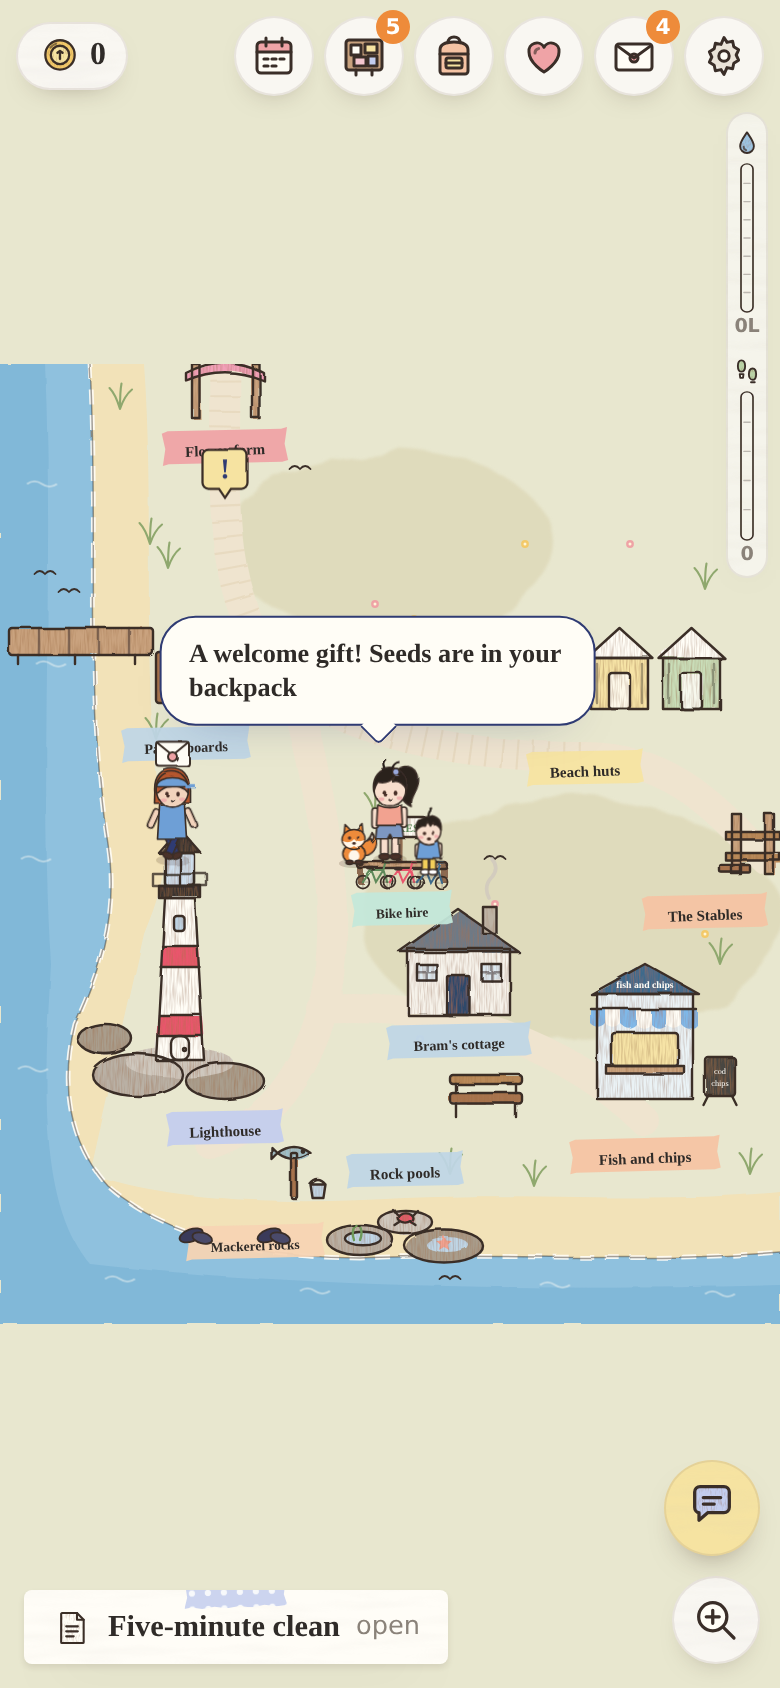
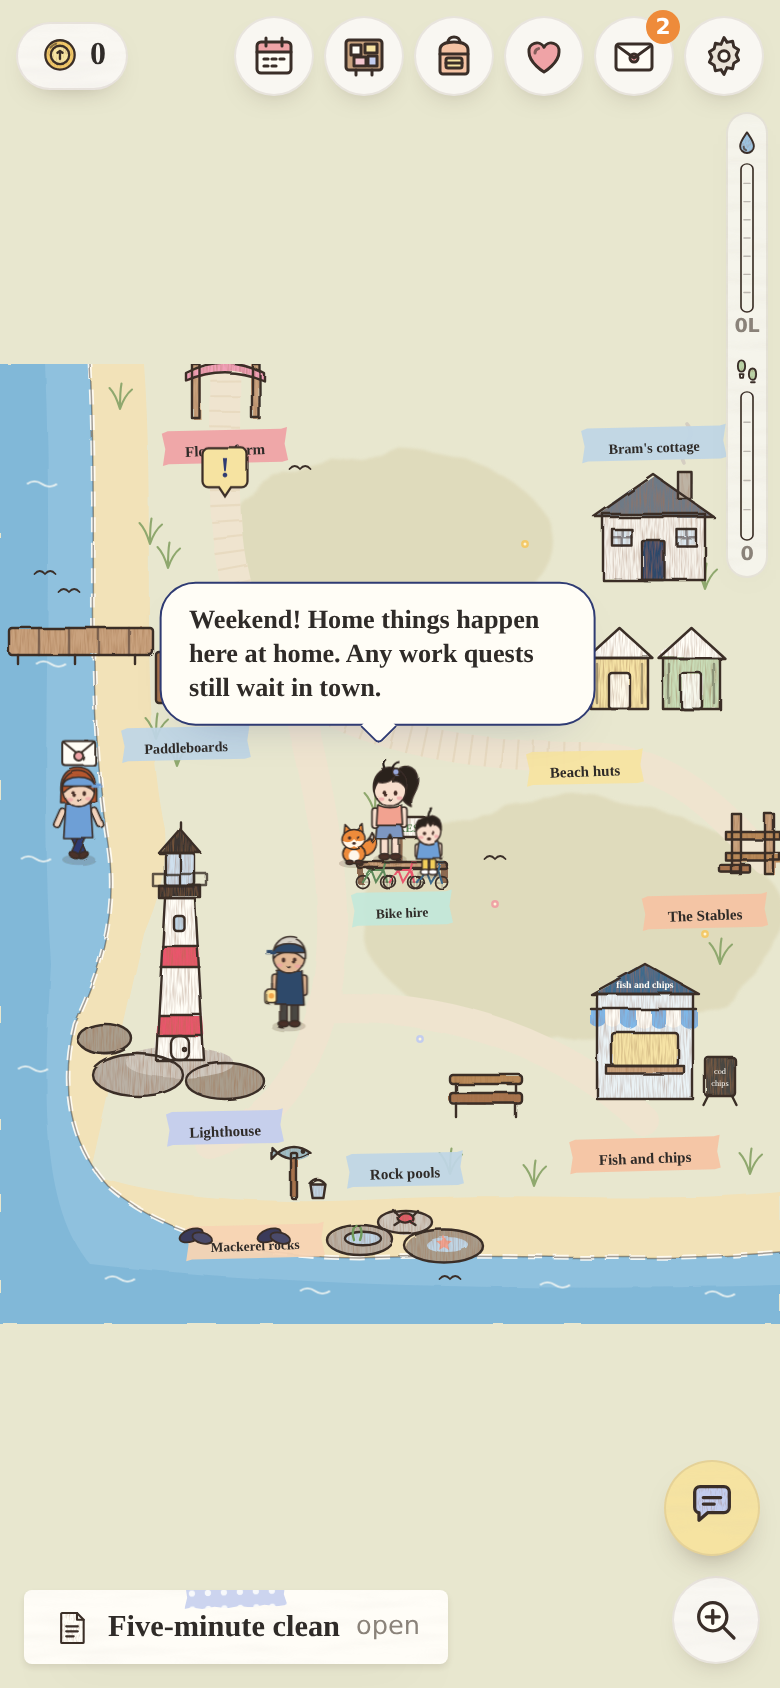
Bram's cottage moves up above the beach huts; port prompt covers the wedding cases
Claude-Session: https://claude.ai/code/session_017gYbhpw6TbdTF5ufLgYzyp

diff --git a/maple-village/src/art/bramcot.js b/maple-village/src/art/bramcot.js
@@ -4,13 +4,14 @@
 // the desk under the round window, and the door back out to the point.
 import { sk, tapeLabel } from "./scenes.js";
 
+// round 285 (Mel: "Why isn't Bram's cottage above the beach huts instead"): drawn at its first spot and moved up there
 export function bramCottageOut(){
-  return `<g data-place="lbram" aria-label="Bram's cottage"><ellipse class="hov" cx="306" cy="436" rx="44" ry="10" style="fill:var(--butter)"/>
+  return `<g data-place="lbram" aria-label="Bram's cottage" transform="translate(130 -290)"><ellipse class="hov" cx="306" cy="436" rx="44" ry="10" style="fill:var(--butter)"/>
     ${sk(`<rect x="272" y="390" width="68" height="44" style="fill:#F6F2EA"/><path d="M266 392 L306 364 L346 392z" style="fill:#6E7A86"/><rect x="322" y="362" width="9" height="18" style="fill:#BDB3A4"/>
       <rect x="298" y="408" width="15" height="26" rx="1" style="fill:#2F4A6B"/><rect class="wglow" x="278" y="400" width="13" height="11" style="fill:#DCE8F0"/><rect class="wglow" x="321" y="400" width="13" height="11" style="fill:#DCE8F0"/>`,
       `<rect x="272" y="390" width="68" height="44"/><path d="M266 392 L306 364 L346 392z"/><rect x="322" y="362" width="9" height="18"/><rect x="298" y="408" width="15" height="26" rx="1"/><rect x="278" y="400" width="13" height="11"/><rect x="321" y="400" width="13" height="11"/><path d="M284.5 400 v11 M278 405.5 h13 M327.5 400 v11 M321 405.5 h13" opacity=".5"/>`)}
     <path d="M326 356 q-4 -8 2 -14 q5 -6 0 -12" fill="none" style="stroke:#CFC8BE" stroke-width="2.4" stroke-linecap="round" opacity=".8"/>
-    ${tapeLabel(306, 452, "Bram's cottage", "var(--sky)", 9.5)}</g>`;
+    ${tapeLabel(306, 344, "Bram's cottage", "var(--sky)", 9.5)}</g>`;
 }
 
 export function bramCottageArt(home){

diff --git a/maple-village/src/data/world.js b/maple-village/src/data/world.js
@@ -81,7 +81,7 @@ export const VILLAGE = {
   lchips:{scene:"lighthouse", name:"The fish and chip hatch", door:[430,508], spot:true, mark:[430,380], line:"Fish and chips."},
   toLowerV:{scene:"vineyard", name:"Path down to the lower vineyard", door:[496,614], spot:true, bridge:"lowervine", mark:[474,540], line:"Down the hill to the lower vineyard."},
   toVineD:{scene:"lowervine", name:"Path up to the vineyard", door:[430,30], spot:true, bridge:"vineyard", mark:[400,90], line:"Up the hill to the vineyard."},
-  lbram: {scene:"lighthouse", name:"Bram's cottage", door:[306,446], spot:true, mark:[306,330], line:"Bram's cottage, at the foot of the light."},   // round 283
+  lbram: {scene:"lighthouse", name:"Bram's cottage", door:[436,156], spot:true, mark:[436,60], line:"Bram's cottage, at the foot of the light."},   // round 283
   vsale: {scene:"lowervine", name:"Bram's For Sale sign", door:[330,150], spot:true, mark:[330,90], line:"A For Sale sign by the path, with a note pinned under it."},   // round 282
   vpress: {scene:"lowervine", name:"The old grape press", door:[110,258], spot:true, mark:[110,120], line:"The old stone press. Marco says his grandfather trod grapes in it, barefoot, singing. Now it's for leaning on and looking at."},
   vbench: {scene:"lowervine", name:"The sea bench", door:[300,580], spot:true, mark:[300,500], line:"You sit a while. The sea goes silver all the way to the edge of the sky, the vines tick in the breeze behind you, and nobody needs anything from you."},

diff --git a/maple-village/src/game/paths.js b/maple-village/src/game/paths.js
@@ -10,7 +10,7 @@ const OBST = {
   green: [[0, 596, 520, 640], [58, 420, 242, 520], [322, 110, 438, 256], [40, 112, 166, 198], [174, 124, 244, 190]],   // pond, bandstand, allotments, shed
   stables: [[0, 596, 520, 640], [194, 116, 446, 232], [18, 128, 150, 230], [154, 192, 198, 224], [230, 354, 500, 574], [32, 452, 188, 548], [56, 386, 106, 416]],
   bramcot: [[0, 0, 520, 200], [56, 284, 152, 362], [250, 280, 350, 342], [376, 204, 486, 268], [478, 196, 520, 290]],   // round 283: Bram's cottage
-  lighthouse: [[268, 362, 346, 434], [0, 0, 62, 320], [0, 320, 75, 440], [0, 440, 55, 550], [0, 550, 110, 640], [110, 592, 520, 640], [52, 304, 176, 464], [295, 176, 483, 232], [394, 400, 466, 490], [100, 188, 146, 228]],
+  lighthouse: [[398, 72, 476, 144], [0, 0, 62, 320], [0, 320, 75, 440], [0, 440, 55, 550], [0, 550, 110, 640], [110, 592, 520, 640], [52, 304, 176, 464], [295, 176, 483, 232], [394, 400, 466, 490], [100, 188, 146, 228]],
   flowers: [[462, 454, 514, 494], [0, 262, 30, 640]],
   orchard: [[64, 96, 200, 222], [350, 156, 480, 236]],
   field: [[80, 220, 340, 340], [326, 290, 400, 430], [346, 430, 400, 640]],

diff --git a/maple-village/src/game/core.js b/maple-village/src/game/core.js
@@ -4421,7 +4421,7 @@ svg.addEventListener("click", ev => {
     return; }
   // round 277: the allotments, each neighbour's plot and the swap crate; the gate back to the green
   // round 283: Bram's cottage: the fire, the kettle (tea with Bram), the ship in a bottle, the window and the logbook
-  if (scene === "bramcot" && ev.target.closest("[data-exit]")) { go(scene, 260, 600, () => setScene("lighthouse", [306, 452])); return; }
+  if (scene === "bramcot" && ev.target.closest("[data-exit]")) { go(scene, 260, 600, () => setScene("lighthouse", [436, 158])); return; }
   const bsp = scene === "bramcot" && ev.target.closest("[data-bspot]");
   if (bsp) { const k = bsp.dataset.bspot, at = {fire: [104, 250], kettle: [200, 250], ship: [300, 250], window: [356, 252], log: [430, 300]}[k];
     go(scene, at[0], at[1], () => { const ev2 = evanHere() && !evanNight(), r = SO.bramSpot(F, k, dayKey(), isHere("bram"), ev2); if (!r) return;

diff --git a/maple-village/PORT-BOTTOM-ROW.md b/maple-village/PORT-BOTTOM-ROW.md
@@ -115,8 +115,14 @@ These story threads hang off the personal edition's villagers and its secret pas
 - **The allotments screen:** new file `src/art/allotment.js`, an inside screen reached from the green (`gallot`), with six neighbours' plots (`PLOTS`, `data-aspot`) and the swap crate. Swap the plot holders for this edition's villagers.
 - **River mouth:** on the lower vineyard the stream fans out across the sand into the sea, filled with a gradient from `--water` to `--sea` so the two blend.
 - **Buying the lower vineyard (round 282):** the four lower rows start as Bram's, with a For Sale sign (`vsale`, `lowerSalePanel`, `buyLower`, 2,500 coins); no trellis goes down there until you buy. Use this edition's keeper if Bram isn't ported.
-- **Riding your own pony and Bram's cottage (round 283):** tack from the tack room, an hour's ride a day as a ride mode ("pony" in `ride()`), and the keeper's cottage by the lighthouse (`art/bramcot.js`, scene `bramcot`, `bramSpot`). Swap Evan for this edition's companion, or drop him.
+- **Riding your own pony and Bram's cottage (round 283):** tack from the tack room, an hour's ride a day as a ride mode ("pony" in `ride()`), and the keeper's cottage above the beach huts at Lighthouse Point (`art/bramcot.js`, scene `bramcot`, `bramSpot`). Swap Evan for this edition's companion, or drop him.
 - **Beachcombing:** two finds a day on each bottom-row beach (`BEACH_SPOTS`, `beachFinds`, `pickBeach`, `beachArt`, `data-shell`): seashells and conches (`BEACH` in `data/carboot.js`), plus the kitchen's existing `clams` and `mussels` if this edition has them; otherwise shells only.
+
+### 11. Weddings buy sparkling by the case (round 284, not part of the bottom row)
+If this edition has the terrace weddings (`game/occasions.js`), port this too: commit `4fea497` "Weddings order two to four cases of sparkling, brought up from the cellar on the day".
+- `occasions.js`: `weddingCases(day)` gives each couple an order of two to four cases; the bookings book note reads "N cases of sparkling ordered from your cellar".
+- `vineyard.js` `sellTick`: once the wedding's on (`v.wedCases` marks the day), that many bottles (six a case) come straight out of the cellar's sparkling, kept-back lots included but nothing on the riddling rack, paid at the shelf price (`bottlePrice`, shared with `stock`). If there's not enough, they take what there is; guests still buy off the shelves as before. The day's report counts the couple's bottles (`today.cases`).
+- Test: the extra checks in "The terrace's week" block.
 
 ## Make it fit this edition
 This edition has no personal family content, so adapt these:

diff --git a/maple-village/HANDOFF.md b/maple-village/HANDOFF.md
@@ -2823,3 +2823,6 @@ Mel: villagers' story chapters read as broken-up speech without context; thank-y
 ## Round 284: weddings really buy sparkling by the case (Mel: "it says they buy sparkling by the case, does that really happen? I've been keeping a bunch of cases of sparkling in the cellar")
 - Before, wedding guests only bought bottle by bottle off the shop shelves (sparkling six times as likely), so held cellar stock never sold. Now occasions.js `weddingCases(day)` gives each couple an order of two to four cases; the bookings book note says "N cases of sparkling ordered from your cellar". vineyard.js `sellTick`: once the wedding's on (`v.wedCases` = the day), that many bottles (6 a case) come straight out of the cellar's sparkling lots, kept-back ones included but not anything on the riddling rack, paid at the shelf price (`bottlePrice`, shared with `stock`); short of the order, they take what there is, and the guests still buy off the shelves as before. The day's report says how many were the couple's cases (`today.cases`).
 - Tests: in "The terrace's week" block.
+
+## Round 285: Bram's cottage moves above the beach huts (Mel: "Why isn't Bram's cottage above the beach huts instead")
+- art/bramcot.js `bramCottageOut` is wrapped in `translate(130 -290)`, label above the roof; world.js `lbram` door [436,156]; paths.js obstacle [398,72,476,144]; leaving the cottage puts you at [436,158]. PORT-BOTTOM-ROW.md now also covers the wedding cases (round 284).
